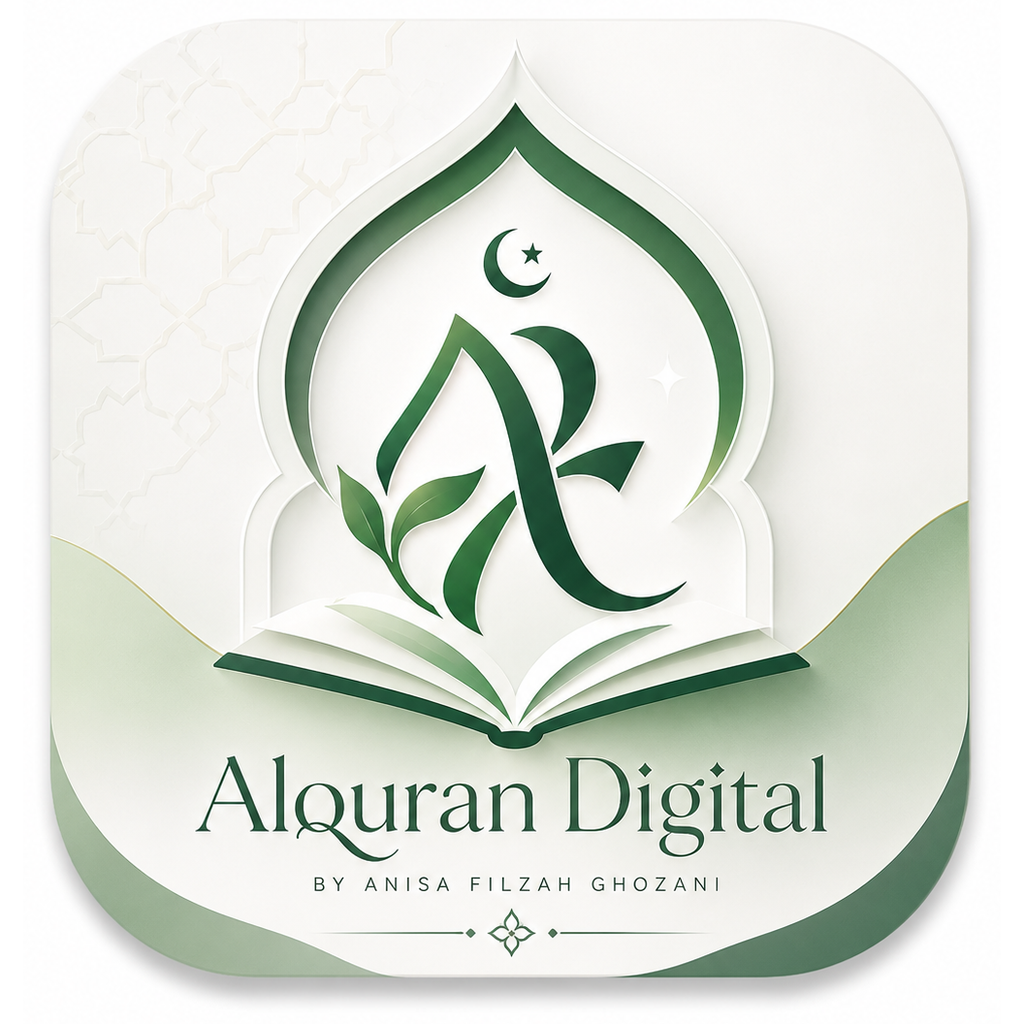
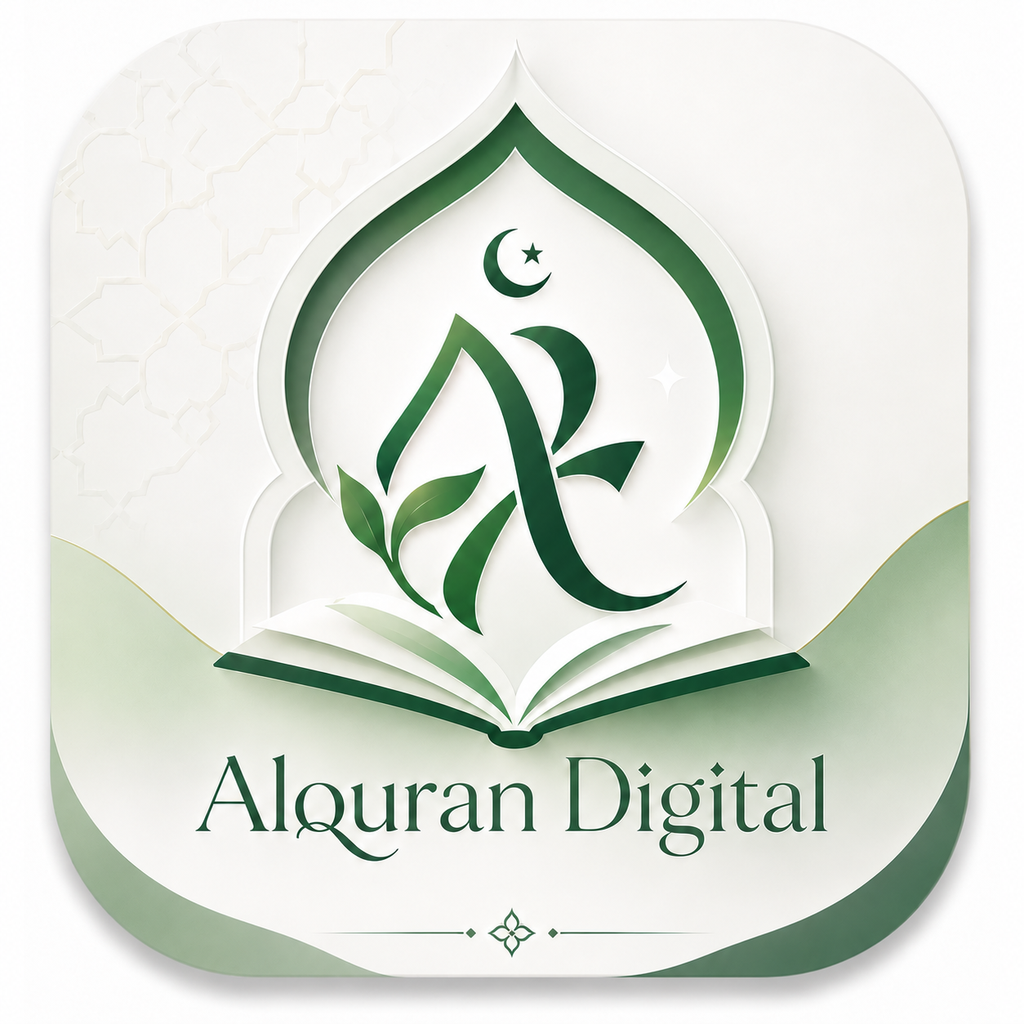
Add files via upload

diff --git a/alquran/src/screens/SimpleFeatureScreen.tsx b/alquran/src/screens/SimpleFeatureScreen.tsx
@@ -402,7 +402,7 @@ const contentByTitle: Record<string, ContentSection[]> = {
     {
       heading: 'Informasi Profil',
       items: [
-        { title: 'Nama', description: 'Anisa Filzah Ghozani', meta: 'Pengguna' },
+        { title: 'Nama', description: 'Pengguna Al-Qur’an Digital', meta: 'Pengguna' },
         { title: 'Tujuan', description: 'Membiasakan tilawah dan mencatat progress bacaan.', meta: 'Target' },
         { title: 'Preferensi', description: 'Tema hijau islami dan audio murottal pilihan.', meta: 'Setelan' },
       ],

diff --git a/alquran/src/screens/HomeScreen.tsx b/alquran/src/screens/HomeScreen.tsx
@@ -31,7 +31,7 @@ export default function HomeScreen() {
     <View style={styles.headerWrap}>
       <View>
         <AppText color={theme.colors.muted}>{"Assalaamu'alaikum Wr.Wb"}</AppText>
-        <AppText color={theme.colors.muted}>{"Selamat Datang di aplikasi Al-Qur'an by Anisa Filzah Ghozani"}</AppText>
+        <AppText color={theme.colors.muted}>{"Selamat datang di Al-Qur’an Digital."}</AppText>
         <AppText variant="title">{'Dekat dengan Al-Qur’an, setiap hari.'}</AppText>
       </View>
 

diff --git a/alquran/src/screens/AboutScreen.tsx b/alquran/src/screens/AboutScreen.tsx
@@ -27,7 +27,7 @@ const aboutSections = [
   },
   {
     title: 'Developer',
-    body: 'Developer: Anisa Filzah Ghozani\nEmail: copawork0@gmail.com\nWebsite: https://github.com/FerdyAdrian/alquran_digital',
+    body: 'Tim Al-Qur’an Digital\nEmail: copawork0@gmail.com\nWebsite: https://github.com/FerdyAdrian/alquran_digital',
   },
   {
     title: 'Kebijakan',

diff --git a/alquran/src/screens/TilawahNotesScreen.tsx b/alquran/src/screens/TilawahNotesScreen.tsx
@@ -154,7 +154,7 @@ export default function TilawahNotesScreen() {
             <View>
               <AppText variant="title">Catatan Tilawah</AppText>
               <AppText color={theme.colors.muted}>
-                Apk by Anisa Filzah Ghozani
+                Catat bacaan dan jaga konsistensi tilawah.
               </AppText>
             </View>
 
